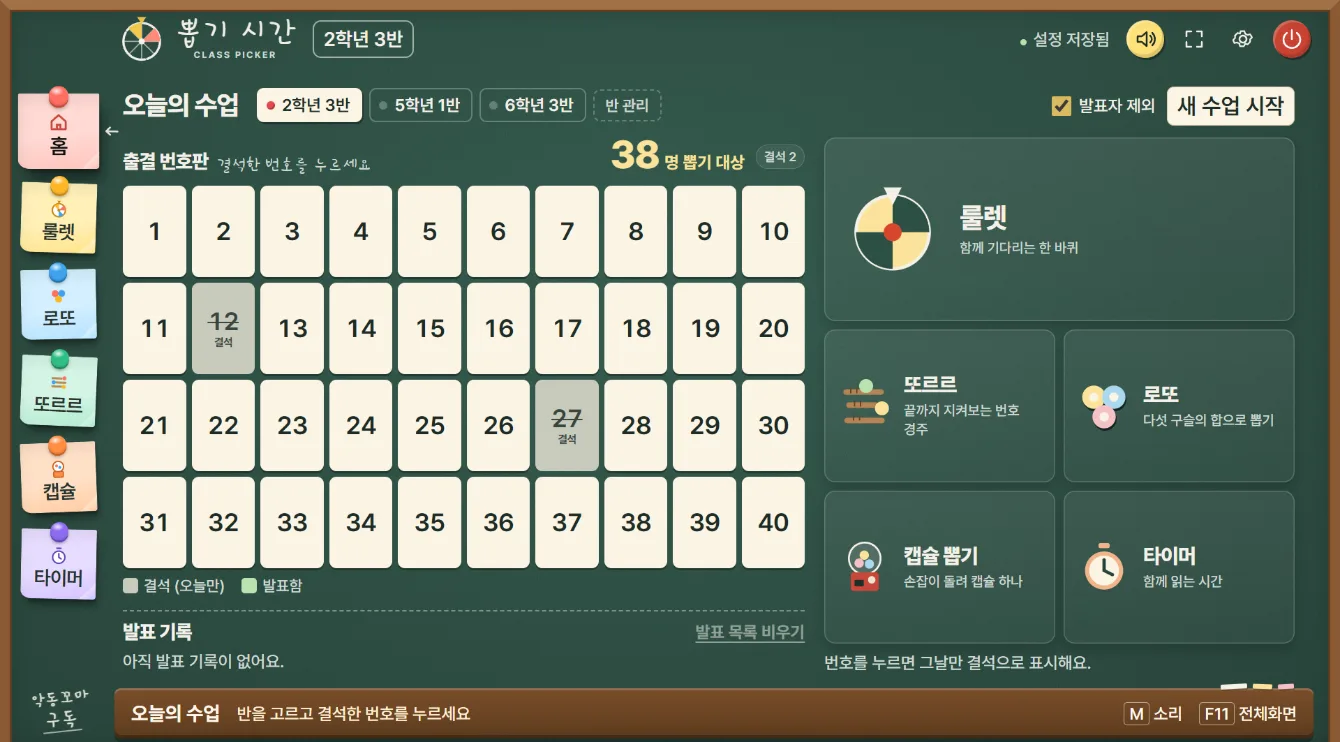
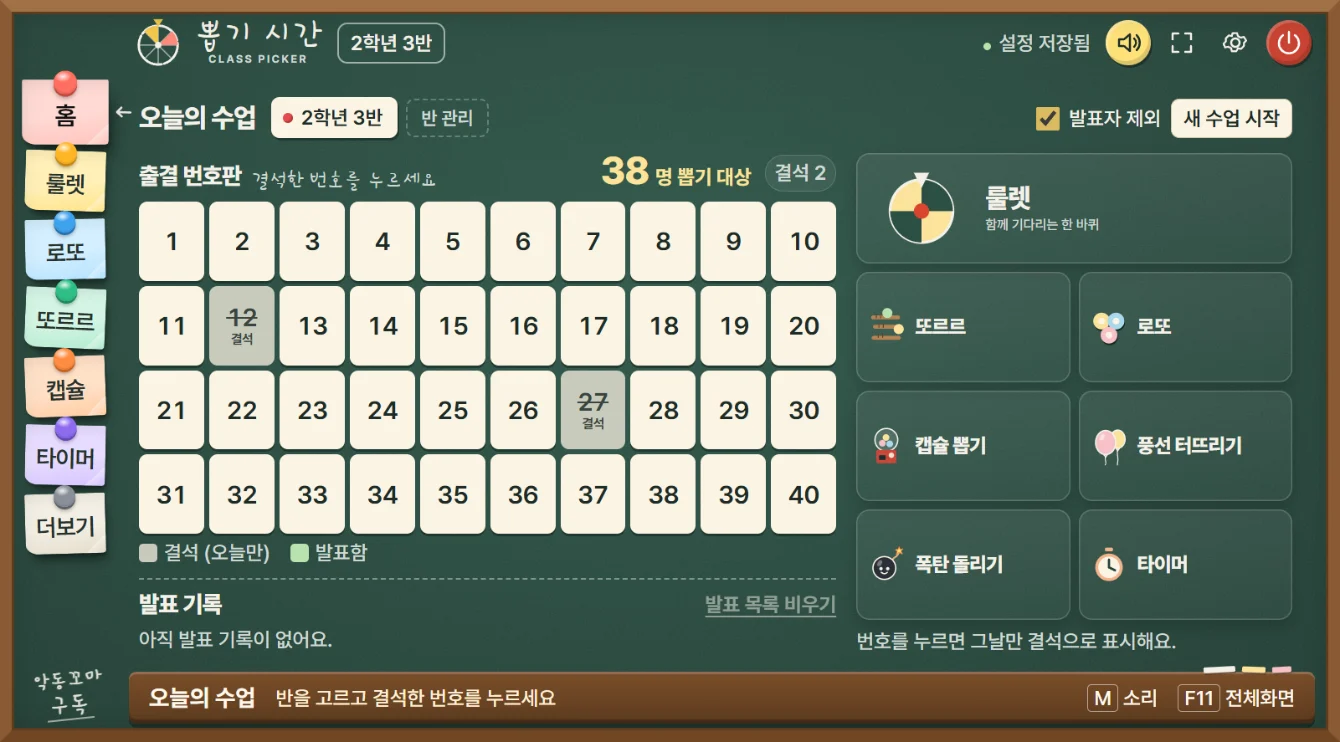
ppobgi (not pushed): hero home photo with the seven-tool menu and balloon/bomb cards

diff --git a/ppobgi.html b/ppobgi.html
@@ -87,7 +87,7 @@
           <figure class="hero__shot">
             <div class="screen">
               <img src="assets/ppobgi/hero-home-700.webp" srcset="assets/ppobgi/hero-home-700.webp 700w, assets/ppobgi/hero-home-1340.webp 1340w" sizes="(min-width:1024px) 620px, 100vw" width="1340" height="742" fetchpriority="high"
-                   alt="뽑기 시간 앱의 홈 화면: 왼쪽에 홈·룰렛·로또·또르르·캡슐·타이머 포스트잇 메뉴, 가운데 1~40번 출결 번호판(12번·27번 결석 표시), 오른쪽에 룰렛·또르르·로또·캡슐 뽑기·타이머 카드, 아래에 나무 받침 줄">
+                   alt="뽑기 시간 앱의 홈 화면: 왼쪽에 홈·룰렛·로또·또르르·캡슐·타이머·더보기 포스트잇 메뉴, 가운데 1~40번 출결 번호판(12번·27번 결석 표시), 오른쪽에 룰렛·또르르·로또·캡슐 뽑기·풍선 터뜨리기·폭탄 돌리기·타이머 카드, 아래에 나무 받침 줄">
             </div>
             <div class="keystrip" role="group" aria-label="교실에서 쓰는 단축키">
               <span><kbd>Space</kbd> 시작</span>
